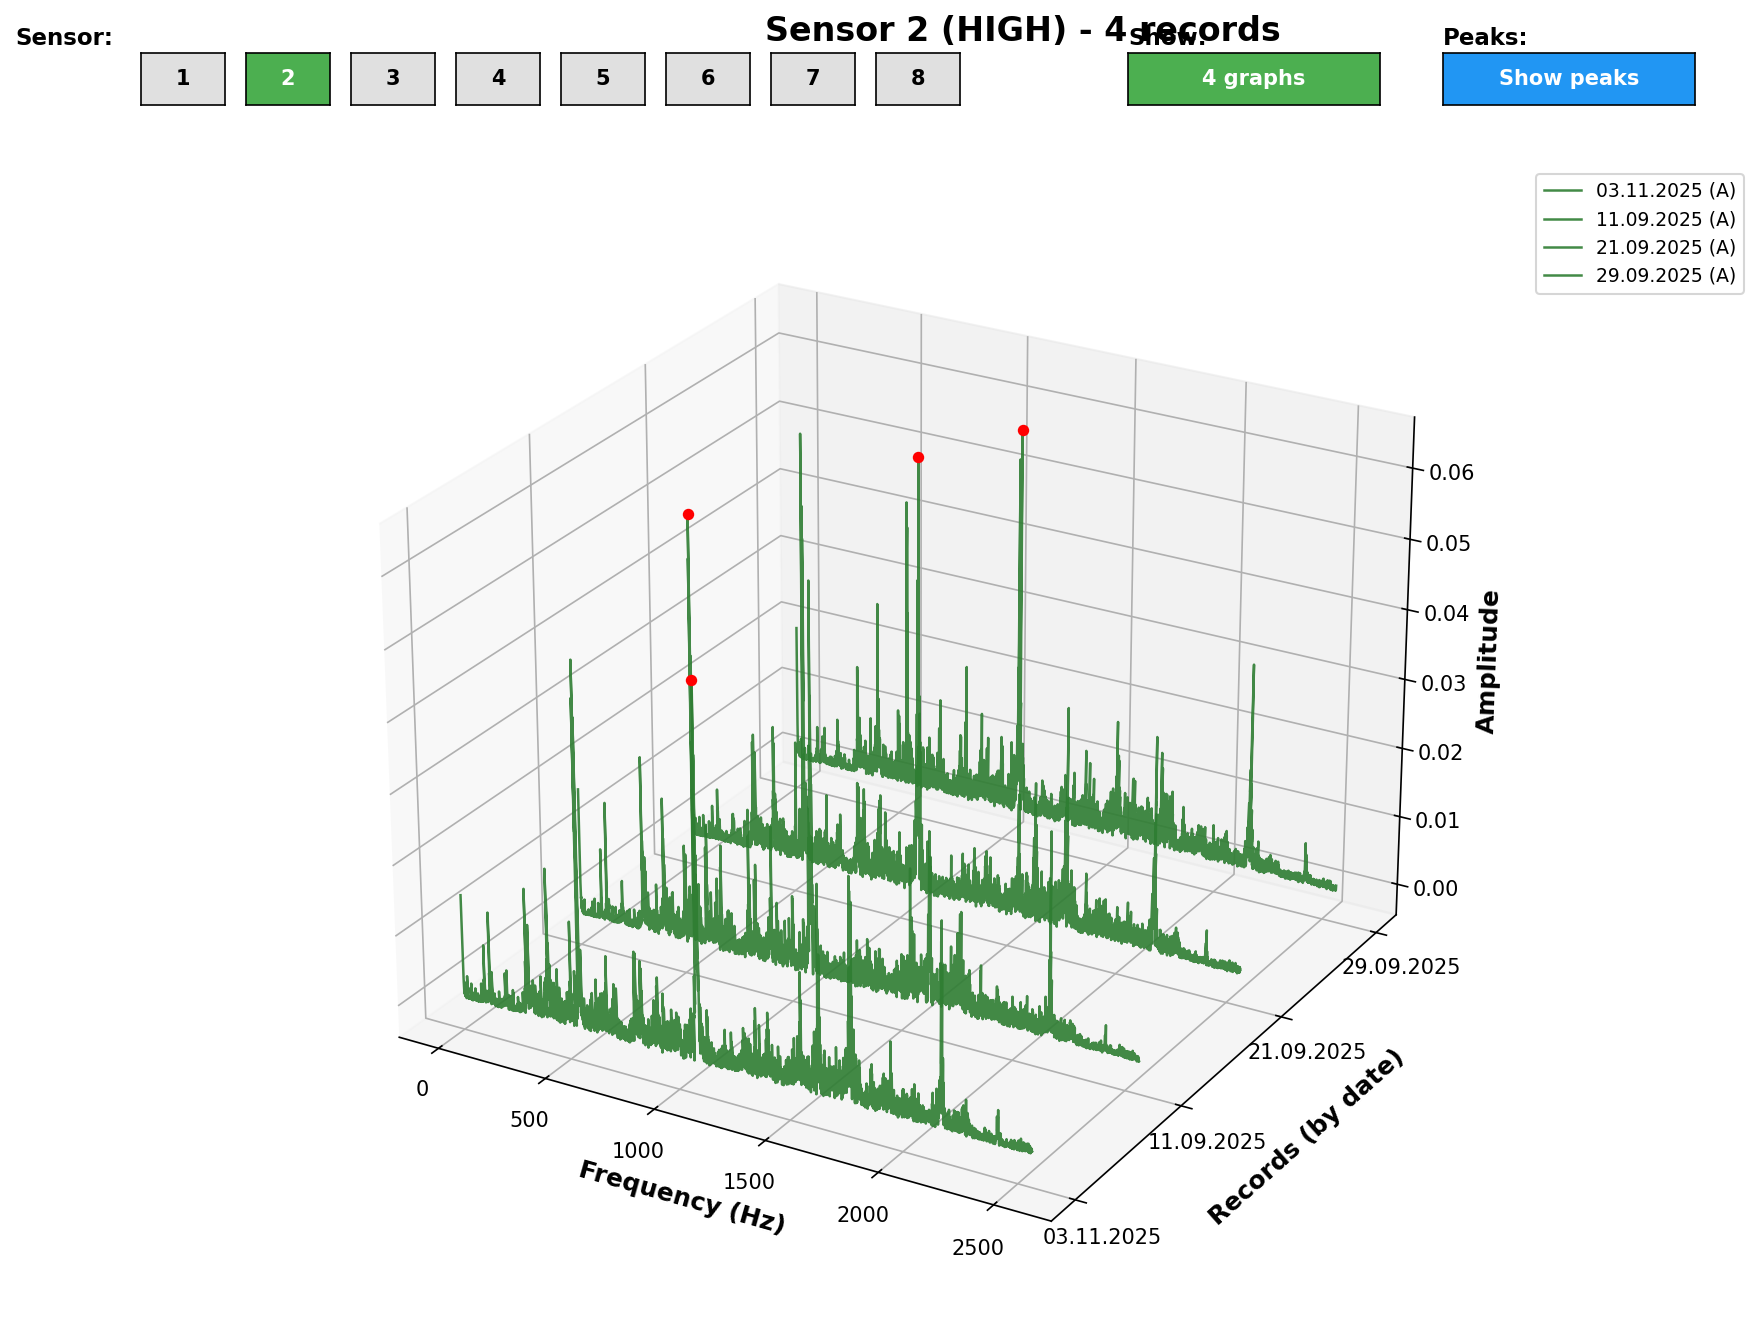
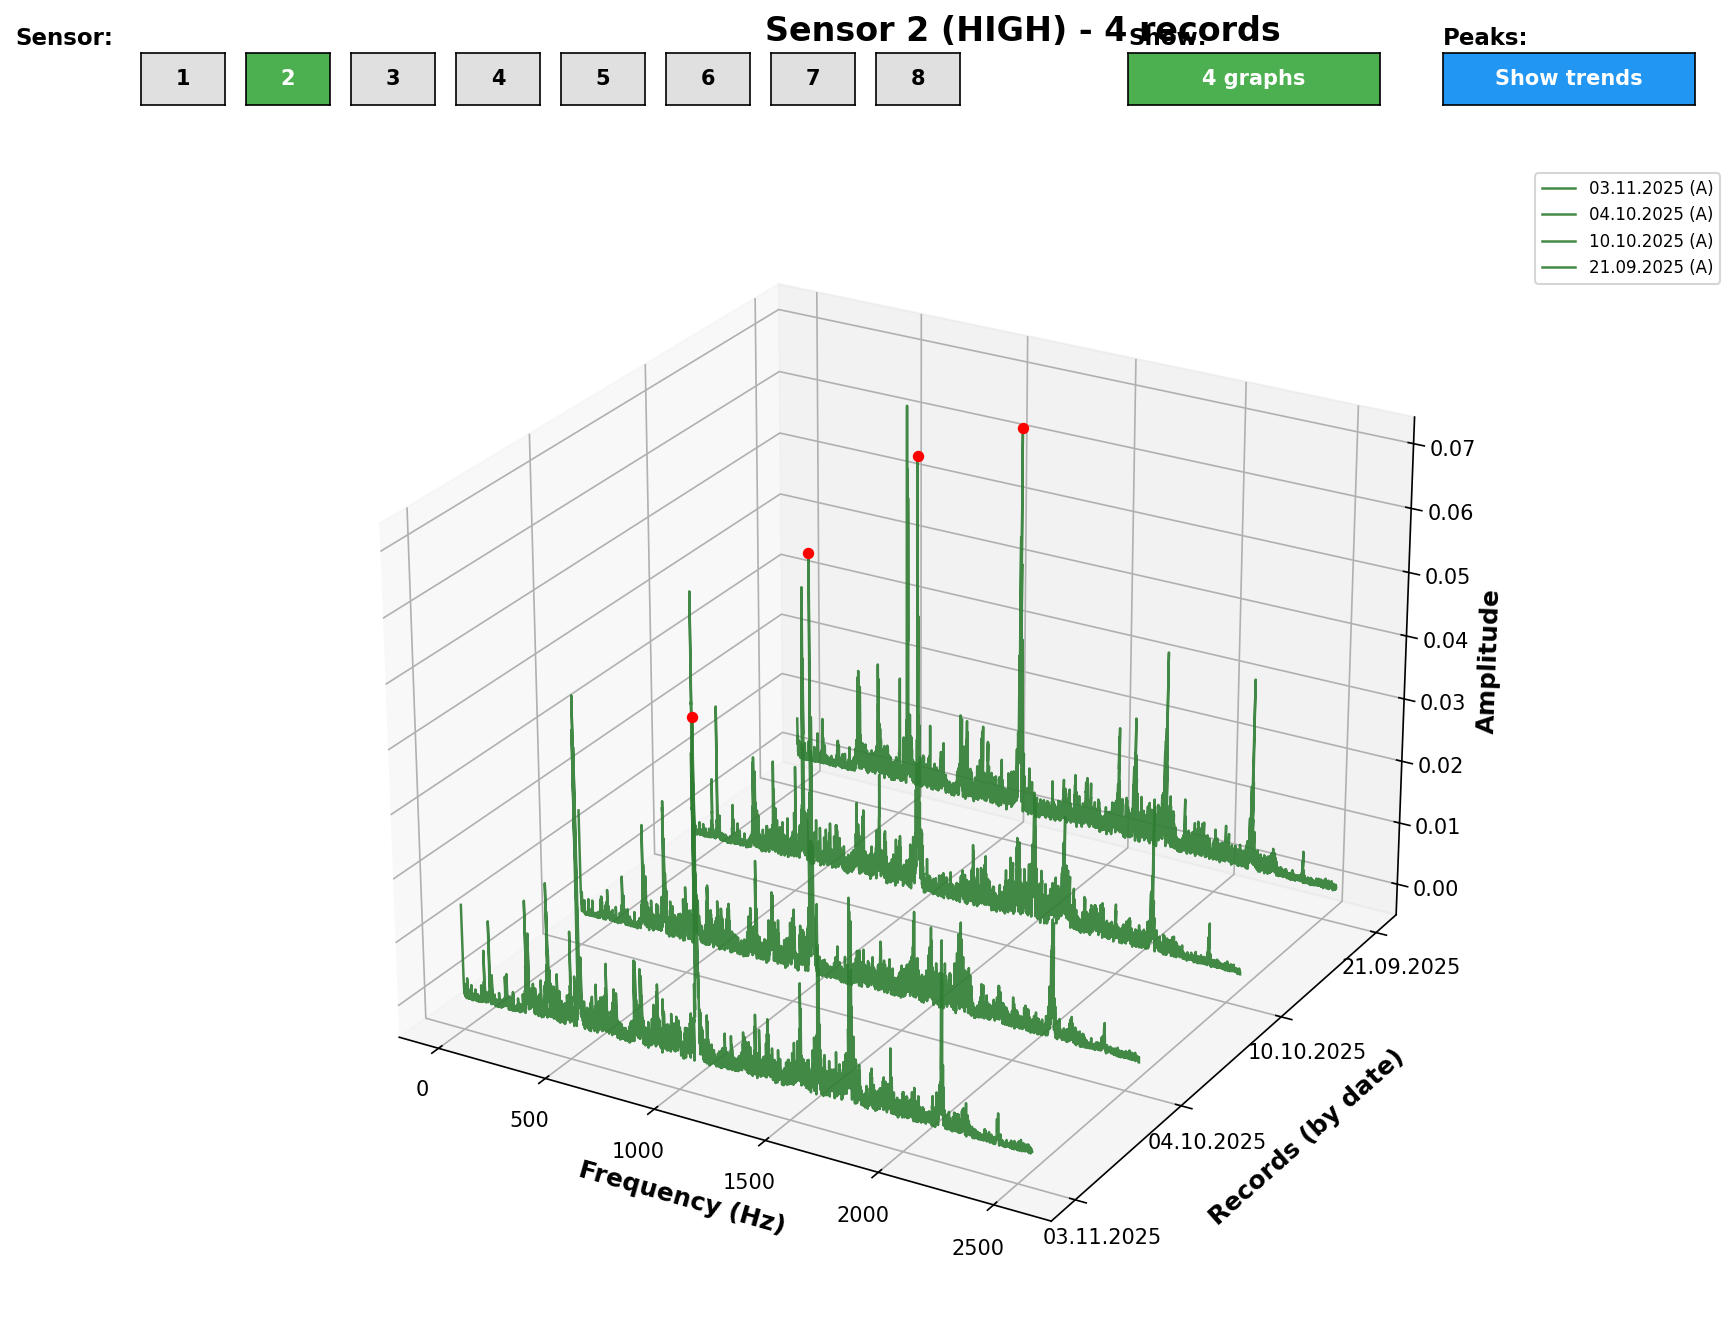
test_cascade_v19.py: 3 диапазона пиков (Low/Med/High), сортировка дат по хронологии, 3 тренда

diff --git a/test_cascade_v19.py b/test_cascade_v19.py
@@ -1,0 +1,207 @@
+# -*- coding: utf-8 -*-
+import matplotlib; matplotlib.use('TkAgg')
+import sys, random
+from pathlib import Path
+from datetime import datetime
+import numpy as np
+import matplotlib.pyplot as plt
+from matplotlib.widgets import Button
+import re
+
+sys.path.insert(0, str(Path(__file__).parent))
+from kwf_prometheus.parsers.rd2_parser import RD2Parser, VibrationAnalyzer
+
+class CascadeSpectrumViewer:
+    def __init__(self, data_path):
+        self.data_path = Path(data_path)
+        self.spectra_data = {}
+        self.all_dates = []
+        self.analyzer = VibrationAnalyzer()
+        self.current_sensor = 2
+        self.show_7 = False
+        self.fig = None
+        self.ax = None
+        self.buttons = []
+        self.lines = []
+        self.is_loading = False
+        self.toggle_btn = None
+        self.peaks_btn = None
+        self.show_peaks = False
+        self.peak_data = {}  # {date: [(freq1,amp1), (freq2,amp2), (freq3,amp3)]}
+        self.peak_points = []
+        self.peak_lines = []
+        self.peak_bands = [(0, 50), (50, 500), (500, 5000)]  # Low, Medium, High Hz
+    
+    def load_spectra(self, sensor_id=2, filter_type='HIGH'):
+        self.is_loading = True
+        print(f'Data: sensor {sensor_id}, {filter_type}')
+        pattern = f'*SENSOR_{sensor_id:02d}_{filter_type}_*.rd2'
+        rd2_files = list(self.data_path.glob(pattern))
+        dates = set()
+        for f in rd2_files:
+            m = re.search(r'SMP_(\d{8})', f.name)
+            if m: dates.add(m.group(1))
+        self.all_dates = sorted(list(dates))
+        if not self.all_dates:
+            self.is_loading = False
+            return False
+        n = 7 if self.show_7 else 4
+        selected = random.sample(self.all_dates, min(n, len(self.all_dates)))
+        selected.sort()
+        print(f'Dates ({len(selected)}): {selected}')
+        self.spectra_data = {}
+        for date_str in selected:
+            files = [f for f in rd2_files if date_str in f.name]
+            if not files: continue
+            try:
+                parser = RD2Parser(str(files[0]))
+                res = parser.parse()
+                if not res or 'values' not in res: continue
+                dt = datetime.strptime(date_str, '%Y%m%d')
+                values = res['values']
+                fs = res['metadata'].get('sampling_frequency', 25600)
+                if len(values) > 0:
+                    freq, amp = self.analyzer.calculate_spectrum(values, fs)
+                    if len(freq) > 0 and len(amp) > 0:
+                        self.spectra_data[dt.strftime('%d.%m.%Y')] = list(zip(freq, amp))
+            except: pass
+        self.is_loading = False
+        return len(self.spectra_data) > 0
+    
+    def plot_cascade(self, title):
+        self.fig = plt.figure(figsize=(14, 10))
+        self.fig.suptitle(title, fontsize=16, fontweight='bold')
+        plt.subplots_adjust(top=0.88, right=0.75)
+        self.ax = self.fig.add_subplot(111, projection='3d')
+        self._draw_lines()
+        self._setup_axes()
+        self._add_buttons()
+        plt.savefig(Path(__file__).parent / 'cascade_spectrum.png', dpi=150, bbox_inches='tight')
+        plt.show()
+    
+    def _draw_lines(self):
+        colors = {'A': '#2E7D32', 'B': '#F9A825', 'C': '#EF6C00', 'D': '#C62828'}
+        for line in self.lines: line.remove()
+        for pt in self.peak_points: pt.remove()
+        for pl in self.peak_lines: pl.remove()
+        self.lines = []
+        self.peak_points = []
+        self.peak_lines = []
+        self.peak_bands = [(0, 50), (50, 500), (500, 5000)]  # Low, Medium, High Hz
+        dates_sorted = sorted(self.spectra_data.keys())
+        peak_freqs, peak_amps, peak_ys = [], [], []
+        for i, date in enumerate(dates_sorted):
+            pts = self.spectra_data[date]
+            freq = np.array([p[0] for p in pts])
+            amp = np.array([p[1] for p in pts])
+            zone = self._get_zone(np.max(amp))
+            line, = self.ax.plot(freq, [i]*len(freq), amp, color=colors[zone], linewidth=1.2, label=f'{date} ({zone})', alpha=0.9)
+            self.lines.append(line)
+            max_idx = np.argmax(amp)
+            peak_freq, peak_amp = freq[max_idx], amp[max_idx]
+            peak_ys.append(i); peak_freqs.append(peak_freq); peak_amps.append(peak_amp)
+            pt = self.ax.scatter([peak_freq], [i], [peak_amp], color='red', s=20, depthshade=True, zorder=10)
+            self.peak_points.append(pt)
+        if self.show_peaks and len(peak_freqs) > 1:
+            self.peak_line, = self.ax.plot(peak_freqs, peak_ys, peak_amps, color='red', linestyle='--', linewidth=2, label='Critical peaks', alpha=0.8)
+    
+    def _setup_axes(self):
+        dates = sorted(self.spectra_data.keys())
+        self.ax.set_xlabel('Frequency (Hz)', fontsize=12, fontweight='bold')
+        self.ax.set_ylabel('Records (by date)', fontsize=12, fontweight='bold', labelpad=12)
+        self.ax.set_zlabel('Amplitude', fontsize=12, fontweight='bold')
+        self.ax.set_yticks(range(len(dates)))
+        self.ax.set_yticklabels(dates, fontsize=10)
+        self.ax.view_init(elev=25, azim=-60)
+        self.ax.legend(loc='upper left', bbox_to_anchor=(1.05, 1), fontsize=8)
+        self.ax.grid(True, alpha=0.3)
+    
+    def _add_buttons(self):
+        btn_w, btn_h = 0.04, 0.035
+        self.buttons = []
+        for sid in range(1, 9):
+            ax_btn = plt.axes([0.08+(sid-1)*0.05, 0.92, btn_w, btn_h])
+            col = '#4CAF50' if sid==self.current_sensor else '#E0E0E0'
+            btn = Button(ax_btn, f'{sid}', color=col, hovercolor='#8BC34A')
+            btn.label.set_color('white' if sid==self.current_sensor else 'black')
+            btn.label.set_weight('bold')
+            btn.on_clicked(lambda e,s=sid: self._sensor_click(s))
+            self.buttons.append(btn)
+        plt.figtext(0.02, 0.96, 'Sensor:', fontsize=11, fontweight='bold')
+        ax_tog = plt.axes([0.55, 0.92, 0.12, btn_h])
+        tog_col = '#FF5722' if self.show_7 else '#4CAF50'
+        tog_lbl = '7 graphs' if self.show_7 else '4 graphs'
+        self.toggle_btn = Button(ax_tog, tog_lbl, color=tog_col, hovercolor='#FF8A65')
+        self.toggle_btn.label.set_color('white')
+        self.toggle_btn.label.set_weight('bold')
+        self.toggle_btn.on_clicked(self._toggle_click)
+        plt.figtext(0.55, 0.96, 'Show:', fontsize=11, fontweight='bold')
+        ax_peaks = plt.axes([0.70, 0.92, 0.12, btn_h])
+        peaks_col = '#FF5722' if self.show_peaks else '#2196F3'
+        peaks_lbl = 'Hide trends' if self.show_peaks else 'Show trends'
+        self.peaks_btn = Button(ax_peaks, peaks_lbl, color=peaks_col, hovercolor='#64B5F6')
+        self.peaks_btn.label.set_color('white')
+        self.peaks_btn.label.set_weight('bold')
+        self.peaks_btn.on_clicked(self._peaks_click)
+        plt.figtext(0.70, 0.96, 'Peaks:', fontsize=11, fontweight='bold')
+    
+    def _peaks_click(self, e):
+        if self.is_loading: return
+        self.show_peaks = not self.show_peaks
+        self.peaks_btn.color = '#FF5722' if self.show_peaks else '#2196F3'
+        self.peaks_btn.label.set_text('Hide trends' if self.show_peaks else 'Show trends')
+        self._draw_lines()
+        self._setup_axes()
+        self.fig.canvas.draw_idle()
+        self.fig.canvas.flush_events()
+    
+    def _sensor_click(self, sid):
+        if self.is_loading: return
+        print(f'Sensor: {sid}')
+        self.current_sensor = sid
+        for i,b in enumerate(self.buttons):
+            b.color = '#4CAF50' if i+1==sid else '#E0E0E0'
+            b.label.set_color('white' if i+1==sid else 'black')
+        if self.load_spectra(sid, 'HIGH'):
+            self._draw_lines()
+            self._setup_axes()
+            self.fig.suptitle(f'Sensor {sid} (HIGH) - {len(self.spectra_data)} records', fontsize=16, fontweight='bold')
+            self.fig.canvas.draw_idle()
+            self.fig.canvas.flush_events()
+    
+    def _toggle_click(self, e):
+        if self.is_loading: return
+        self.show_7 = not self.show_7
+        print(f'Show: {"7" if self.show_7 else "4"} random dates')
+        self.toggle_btn.color = '#FF5722' if self.show_7 else '#4CAF50'
+        self.toggle_btn.label.set_text('7 graphs' if self.show_7 else '4 graphs')
+        if self.load_spectra(self.current_sensor, 'HIGH'):
+            self._draw_lines()
+            self._setup_axes()
+            self.fig.suptitle(f'Sensor {self.current_sensor} (HIGH) - {len(self.spectra_data)} records', fontsize=16, fontweight='bold')
+            self.fig.canvas.draw_idle()
+            self.fig.canvas.flush_events()
+    
+    def _get_zone(self, v):
+        v = v*10
+        return 'A' if v<2.3 else 'B' if v<4.5 else 'C' if v<7.8 else 'D'
+
+def main():
+    print('='*70+'\nCASCADE SPECTRUM v1.9 - 3 Band Peaks\n'+'='*70)
+    data_path = Path(r'D:\Coding\pyton_pro\test_data\cascade_extracted')
+    if not data_path.exists():
+        print('Folder not found!'); return
+    viewer = CascadeSpectrumViewer(data_path)
+    if viewer.load_spectra(2, 'HIGH'):
+        viewer.plot_cascade(f'Sensor 2 (HIGH) - {len(viewer.spectra_data)} records')
+        plt.show()
+        print('Window closed')
+    print('\nControls: 1-8 = Sensor, 4/7 = Dates, Peaks = 3 bands (Low/Med/High)')
+
+if __name__ == '__main__':
+    main()
+
+
+
+
+

diff --git a/create_v19.py b/create_v19.py
@@ -1,0 +1,107 @@
+with open('D:/Coding/pyton_pro/test_cascade_v18.py', 'r', encoding='utf-8') as f:
+    content = f.read()
+
+# Обновляем переменные для 3 пиков
+content = content.replace(
+    'self.peak_points = []\n        self.peak_line = None',
+    'self.peak_points = []\n        self.peak_lines = []\n        self.peak_bands = [(0, 50), (50, 500), (500, 5000)]  # Low, Medium, High Hz'
+)
+
+content = content.replace(
+    'self.show_peaks = False',
+    'self.show_peaks = False\n        self.peak_data = {}  # {date: [(freq1,amp1), (freq2,amp2), (freq3,amp3)]}'
+)
+
+# Обновляем _draw_lines для 3 пиков по диапазонам
+old_draw = """def _draw_lines(self):
+        colors = {'A': '#2E7D32', 'B': '#F9A825', 'C': '#EF6C00', 'D': '#C62828'}
+        for line in self.lines: line.remove()
+        for pt in self.peak_points: pt.remove()
+        if self.peak_line: self.peak_line.remove()
+        self.lines = []
+        self.peak_points = []
+        self.peak_line = None
+        dates_sorted = sorted(self.spectra_data.keys())
+        peak_freqs, peak_amps, peak_ys = [], [], []
+        for i, date in enumerate(dates_sorted):
+            pts = self.spectra_data[date]
+            freq = np.array([p[0] for p in pts])
+            amp = np.array([p[1] for p in pts])
+            zone = self._get_zone(np.max(amp))
+            line, = self.ax.plot(freq, [i]*len(freq), amp, color=colors[zone], linewidth=1.2, label=f'{date} ({zone})', alpha=0.9)
+            self.lines.append(line)
+            max_idx = np.argmax(amp)
+            peak_freq, peak_amp = freq[max_idx], amp[max_idx]
+            peak_ys.append(i); peak_freqs.append(peak_freq); peak_amps.append(peak_amp)
+            pt = self.ax.scatter([peak_freq], [i], [peak_amp], color='red', s=20, depthshade=True, zorder=10)
+            self.peak_points.append(pt)
+        if self.show_peaks and len(peak_freqs) > 1:
+            self.peak_line, = self.ax.plot(peak_freqs, peak_ys, peak_amps, color='red', linestyle='--', linewidth=2, label='Critical peaks', alpha=0.8)"""
+
+new_draw = """def _draw_lines(self):
+        colors = {'A': '#2E7D32', 'B': '#F9A825', 'C': '#EF6C00', 'D': '#C62828'}
+        for line in self.lines: line.remove()
+        for pt in self.peak_points: pt.remove()
+        for pl in self.peak_lines: pl.remove()
+        self.lines = []
+        self.peak_points = []
+        self.peak_lines = []
+        self.peak_data = {}
+        # Сортировка дат по хронологии
+        from datetime import datetime
+        dates_dt = [(d, datetime.strptime(d, '%d.%m.%Y')) for d in self.spectra_data.keys()]
+        dates_dt.sort(key=lambda x: x[1])
+        dates_sorted = [d[0] for d in dates_dt]
+        
+        # 3 диапазона частот для пиков
+        peak_bands = [(0, 50, 'Low'), (50, 500, 'Med'), (500, 5000, 'High')]
+        band_colors = ['#FF0000', '#00FF00', '#0000FF']
+        
+        for i, date in enumerate(dates_sorted):
+            pts = self.spectra_data[date]
+            freq = np.array([p[0] for p in pts])
+            amp = np.array([p[1] for p in pts])
+            zone = self._get_zone(np.max(amp))
+            line, = self.ax.plot(freq, [i]*len(freq), amp, color=colors[zone], linewidth=1.2, label=f'{date} ({zone})', alpha=0.9)
+            self.lines.append(line)
+            self.peak_data[date] = []
+            # 3 пика по диапазонам
+            for f_min, f_max, _ in peak_bands:
+                mask = (freq >= f_min) & (freq < f_max)
+                if np.any(mask):
+                    sub_freq = freq[mask]
+                    sub_amp = amp[mask]
+                    max_idx = np.argmax(sub_amp)
+                    peak_freq = sub_freq[max_idx]
+                    peak_amp = sub_amp[max_idx]
+                    self.peak_data[date].append((peak_freq, peak_amp))
+                    pt = self.ax.scatter([peak_freq], [i], [peak_amp], color='red', s=15, depthshade=True, zorder=10)
+                    self.peak_points.append(pt)
+        
+        # Пунктирные линии для каждого диапазона
+        if self.show_peaks and len(dates_sorted) > 1:
+            for band_idx, (f_min, f_max, band_name) in enumerate(peak_bands):
+                line_freqs, line_amps, line_ys = [], [], []
+                for i, date in enumerate(dates_sorted):
+                    if date in self.peak_data and len(self.peak_data[date]) > band_idx:
+                        pf, pa = self.peak_data[date][band_idx]
+                        line_freqs.append(pf)
+                        line_amps.append(pa)
+                        line_ys.append(i)
+                if len(line_freqs) > 1:
+                    pl, = self.ax.plot(line_freqs, line_ys, line_amps, color=band_colors[band_idx], 
+                                       linestyle='--', linewidth=2, label=f'{band_name} trend', alpha=0.7)
+                    self.peak_lines.append(pl)"""
+
+content = content.replace(old_draw, new_draw)
+
+# Обновляем legend
+content = content.replace(
+    "self.ax.legend(loc='upper left', bbox_to_anchor=(1.05, 1), fontsize=9)",
+    "self.ax.legend(loc='upper left', bbox_to_anchor=(1.05, 1), fontsize=8)"
+)
+
+with open('D:/Coding/pyton_pro/test_cascade_v19.py', 'w', encoding='utf-8') as f:
+    f.write(content)
+
+print('v1.9 created')

diff --git a/update_v19.py b/update_v19.py
@@ -1,0 +1,21 @@
+with open('D:/Coding/pyton_pro/test_cascade_v19.py', 'r', encoding='utf-8') as f:
+    content = f.read()
+
+# Обновляем заголовок
+content = content.replace('CASCADE SPECTRUM v1.8', 'CASCADE SPECTRUM v1.9 - 3 Band Peaks')
+content = content.replace('4/7 = Dates, Peaks = Critical points', '4/7 = Dates, Peaks = 3 bands (Low/Med/High)')
+
+# Обновляем кнопку peaks
+content = content.replace(
+    "peaks_lbl = 'Hide peaks' if self.show_peaks else 'Show peaks'",
+    "peaks_lbl = 'Hide trends' if self.show_peaks else 'Show trends'"
+)
+content = content.replace(
+    "self.peaks_btn.label.set_text('Hide peaks' if self.show_peaks else 'Show peaks')",
+    "self.peaks_btn.label.set_text('Hide trends' if self.show_peaks else 'Show trends')"
+)
+
+with open('D:/Coding/pyton_pro/test_cascade_v19.py', 'w', encoding='utf-8') as f:
+    f.write(content)
+
+print('v1.9 updated')
